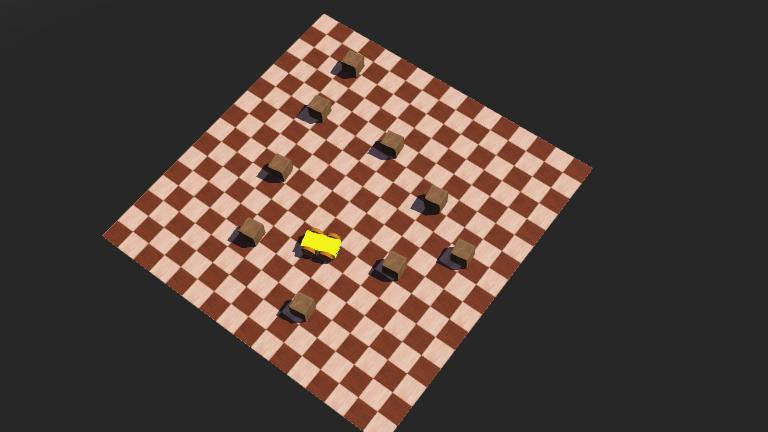
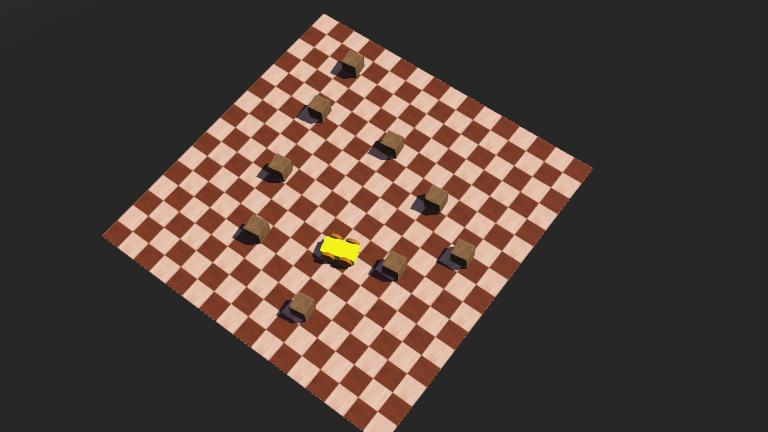
1.4

Changed region(s): [[0.2812, 0.4815, 0.4688, 0.6319]]

diff --git a/Zadanie 2/controllers/four_wheeled_collision_avoidance/four_wheeled_collision_avoidance.py b/Zadanie 2/controllers/four_wheeled_collision_avoidance/four_wheeled_collision_avoidance.py
@@ -15,8 +15,8 @@ for i in range(4):
     wheels[i].setVelocity(0.0)
 avoidObstacleCounter = 0
 while robot.step(TIME_STEP) != -1:
-    leftSpeed = 2.0
-    rightSpeed = 2.0
+    leftSpeed = 10.0
+    rightSpeed = 10.0
     leftds = ds[0].getValue()
     rightds = ds[1].getValue()
     colSens = ds[2].getValue()
@@ -27,11 +27,11 @@ while robot.step(TIME_STEP) != -1:
             leftSpeed = -2
             rightSpeed = 2
         elif rightds >= 1000 and  leftds <= 900:
-            leftSpeed = 2
-            rightSpeed = -2
+            leftSpeed = 10
+            rightSpeed = -10
         else:
-            leftSpeed = 2.0
-            rightSpeed = 2.0
+            leftSpeed = 10.0
+            rightSpeed = 10.0
     elif detected == 0:
         if avoidObstacleCounter > 0:
             avoidObstacleCounter -= 1
